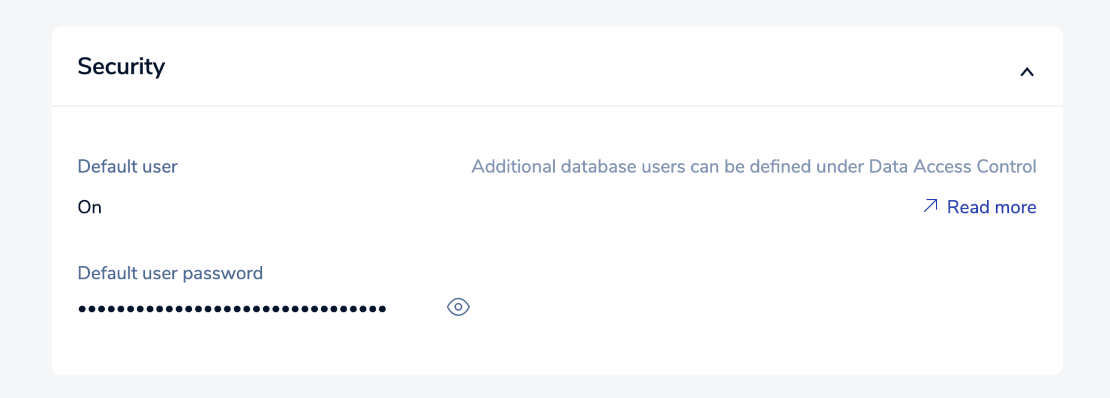
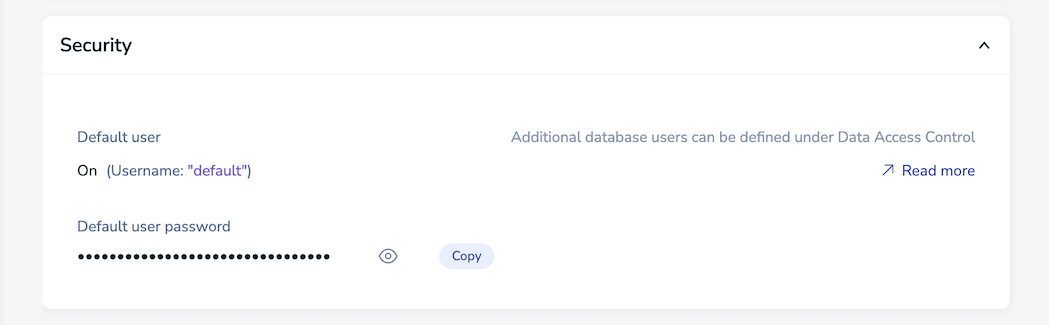
RC RBAC updates for new UI (#2248)
* Initial updates for RC RBAC screenshots & instructions

* Updated ACL & role instructions + copy edits/formatting

* Added new buttons & icons

* Added/fixed links, copy edits, reduced screenshot size

diff --git a/content/rc/security/database-security/passwords-users-roles.md b/content/rc/security/database-security/passwords-users-roles.md
@@ -9,12 +9,12 @@ aliases: /rc/administration/security/data-access-control
          /rc/security/database-security/passwords-users-roles.md
 ---
 All Redis Cloud databases require either [password-based authentication](#password-based-authentication) or
-[role-based access control](#role-based-access-control). Role-based access control allows you to define multiple
+[role-based access control](#role-based-access-control). Role-based access control lets you define multiple
 users with fine-grained authorization features.
 
 ## Prerequisites
 
-To use role-based access control, your Redis cloud database needs to support Redis version 6.0.0 or later.
+To use role-based access control, your Redis Cloud database needs to support Redis version 6.0.0 or later.
 
 The **Redis version** of a database is displayed in the **General** section of the **Configuration** tab of the [database detail]({{<relref "rc/databases/view-edit-database">}}) screen.
 
@@ -28,14 +28,9 @@ This appears in the **Security** section of the **Configuration** tab of the dat
 
 {{<image filename="images/rc/database-fixed-configuration-security.png" alt="The Default user password appears in the Security section of the Configuration tab on the database details screen." >}}{{< /image >}}
 
+Use the copy button to copy the password to the clipboard:
 
-You can see this password on the **View Database** screen.
-
-![Default User Password](/images/rc/default-user-password.png "Default User Password")
-
-Click the ![Password View Icon](/images/rc/icon_view.png "Default User Password") icon to see your password and copy it.
-
-![Default User Password Reveal](/images/rc/default-user-password-reveal.png "Default User Password Reveal")
+{{<image filename="images/rc/button-database-password-copy.png"  alt="Use the Copy button to copy the default user password." >}}{{< /image >}}
 
 You'll need to use this password whenever you connect to your database using a Redis client. For example,
 in the Redis CLI, you use the AUTH command to provide this password:
@@ -44,45 +39,47 @@ in the Redis CLI, you use the AUTH command to provide this password:
 AUTH 4kTtH2ddXfN2sFmXE6sowOLukxiaJhN8n
 ```
 
-See your Redis client's documentation for specifics on how to provide your password when connecting.
+See your Redis client's documentation to learn how to provide your password when connecting.
 
-### Changing the password
+### Change password
 
-To change your Redis database password:
+To change the default user password for your database:
 
-1. From the **View Database** screen, click ![Edit](/images/rc/icon_edit.png#no-click "Edit"):
+1. From the database **Configuration** tab, select **Edit database**:
 
-![Edit Database](/images/rc/view-edit.png "Edit Database")
+    {{<image filename="images/rc/button-database-edit.png" width="150px" alt="The Edit database button lets you change the database's default user password." >}}{{< /image >}}
 
-2. Scroll down to **Access Control & Security**, and enter the new password:
+1. Under the **Security** section, enter the new password in the **Default user password** field.
 
-![Edit Password](/images/rc/edit-password.png "Edit Password")
+1. Select **Save database** to update the password:
 
-3. Click **Update** to save your changes.
+    {{<image filename="images/rc/button-database-save.png" width="150px" alt="Use the Save database button to save the new password." >}}{{< /image >}}
 
-![Cancel/Update](/images/rc/cancel-update.png "Cancel Update")
+## Role-based access control {#role-based-access-control}
 
-## Role-Based access control {#role-based-access-control}
-
-Role-based access control (RBAC) is an access-control mechanism that allows you to define *roles* with specific sets of *permissions*. You can then assign *users* to these roles
+Role-based access control (RBAC) lets you define *roles* with specific sets of *permissions*. You can then assign *users* to these roles
 to provide appropriate levels of access.
 
 RBAC effectively lets you implement the [principle of least privilege](https://en.wikipedia.org/wiki/Principle_of_least_privilege). For example, you can provide
 read-only access to an application whose only job is to display Redis data. Similarly, you can prevent new developers from running dangerous administrative commands.
 
-### Setting up RBAC
+### Set up RBAC
 
 To set up RBAC, first navigate to the **Data Access Control** screen.
-
-![Data Access Control](/images/rc/data-access-control.png "Data Access Control")
 
 There are three tabs on this screen: **Users**, **Roles**, and **Redis ACLs**.
 
 In the **Redis ACLs** tab, you define named *permissions* for specific Redis commands and keys.
 
+{{<image filename="images/rc/data-access-control-acls.png" alt="Data access control screen." >}}{{< /image >}}
+
 In the **Roles** tab, you create roles. Each role consists of a set of permissions for one or more Redis Cloud databases.
 
-Finally, in the **Users** tab, you create users, and you assign each user a role.
+{{<image filename="images/rc/data-access-control-roles.png" alt="Data access control screen." >}}{{< /image >}}
+
+Finally, in the **Users** tab, you create users and assign each user a role.
+
+{{<image filename="images/rc/data-access-control-users.png" alt="Data access control screen." >}}{{< /image >}}
 
 #### OSS Redis ACLs vs. Redis Enterprise Cloud RBAC
 
@@ -102,52 +99,14 @@ run within the transaction block are subject to RBAC permissions.
 
 When you run multi-key commands on multi-slot keys, the return value is `failure` but the command runs on the keys that are allowed.
 
-### Defining permissions
+### Define permissions
 
-To define permissions, go to the **Redis ACLs** tab of the **Data Access Control** page.
+To define permissions, go to the **Redis ACLs** tab of the **Data Access Control** screen.
 
-![Redis ACLs](/images/rc/redis-acls.png "Redis ACLs")
+{{<image filename="images/rc/data-access-control-acls.png" alt="Data access control screen." >}}{{< /image >}}
 
-You define these named permissions using the [Redis ACL syntax](https://redis.io/topics/acl#acl-rules). This
-syntax allows you to concisely specify **commands**, **command categories**, and **keys** that should be permitted.
-
-A **command** can be any Redis command. Take the `SET` command, for example. The Redis ACL rule
-
-```sh
-+set
-```
-
-indicates that the `SET` command is permitted.
-
-A **command category** is a predefined, named set of commands. For example, the Redis commands that
-read data are available in the `read` command category. The Redis ACL rule
-
-```sh
-+@read
-```
-
-permits access to all read commands. If you'd like to know which commands are included in the
-`read` command category, run
-
-```sh
-ACL CAT read
-```
-
-from the Redis CLI.
-
-There's also a syntax for specifying which **keys** can be accessed. For example,
-
-```sh
-~*
-```
-
-indicates that all keys can be accessed. Whereas
-
-```
-~cache:*
-```
-
-indicates that only those keys beginning with the prefix `cache:` can be accessed.
+You define these named permissions using the [Redis ACL syntax](https://redis.io/docs/management/security/acl/#acl-rules). This
+syntax lets you concisely specify which **commands**, **command categories**, and **keys** to allow.
 
 The Redis ACL syntax emphasizes brevity:
 
@@ -156,13 +115,59 @@ The Redis ACL syntax emphasizes brevity:
 - `@` indicates a command category
 - `~` defines a permitted key pattern
 
+#### Command ACL rules
+
+A **command** can be any [Redis command](https://redis.io/commands/).
+
+For example, this Redis ACL rule indicates that the `SET` command is permitted:
+
+```sh
++set
+```
+
+#### Command category ACL rules
+
+A [**command category**](https://redis.io/docs/management/security/acl/#command-categories) is a predefined, named set of commands.
+
+For example, the Redis commands that
+read data are available in the `read` command category. This Redis ACL rule permits access to all read commands:
+
+```sh
++@read
+```
+
+To find out which commands are included in the
+`read` command category, run the following command with [`redis-cli`]({{<relref "/rs/references/cli-utilities/redis-cli">}}):
+
+```sh
+ACL CAT read
+```
+
+#### Key ACL rules
+
+There's also a [syntax](https://redis.io/docs/management/security/acl/#key-permissions) for specifying which **keys** are accessible.
+
+The following ACL rule allows access to all keys:
+
+```sh
+~*
+```
+
+Whereas, this ACL rule only allows access to keys prefixed with `cache:`
+
+```
+~cache:*
+```
+
 #### Predefined permissions
 
 Redis Cloud includes three, predefined permissions:
 
-- Full Access (`+@all ~*`) - All commands are allowed for all keys
-- Not Dangerous (`+@all -@dangerous ~*`) - All commands except for the "dangerous" command category are allowed for all keys
-- Read Only (`+@read ~*`) - Only the "read" command category is allowed for all keys
+- Full-Access (`+@all ~*`) - All commands are allowed for all keys
+
+- Read-Write (`+@all -@dangerous ~*`) - All commands except for the "dangerous" command category are allowed for all keys
+
+- Read-Only (`+@read ~*`) - Only the "read" command category is allowed for all keys
 
 #### Module command permissions
 
@@ -175,54 +180,94 @@ To define database access control, you can either:
 - Create new data access roles and select the management roles and Redis ACLs that apply to the roles for specific databases.
 - Assign roles and Redis ACLs to a database in the access control list section of the [database configuration]({{< relref "/rc/databases/create-database.md" >}}).
 
-### Configuring permissions using Redis ACLs
+### Configure permissions with Redis ACLs
 
 To configure a Redis ACL that you can assign to a data access role:
 
-1. In **Data Access Control** > **Redis ACLs**:
-    - To edit an existing Redis ACL: Hover over a Redis ACL and click ![Edit](/images/rc/icon_edit.png#no-click "Edit").
-    - To create a new Redis ACL: Click ![Add](/images/rc/icon_add.png#no-click "Add").
-1. Enter a descriptive name for the Redis ACL.
-1. Enter the [ACL syntax](https://redis.io/topics/acl#acl-rules) defining the ACL or click **Rule Builder** to use a form to build the ACL:
-    1. For the commands:
-        1. Select whether to include or exclude a command or category.
-        1. Enter the [ACL syntax](https://redis.io/topics/acl#acl-rules) that defines the commands.
-            - To add more command definitions, click ![Add](/images/rc/icon_add.png#no-click "Add").
-            - All entries in the Commands/Categories column apply to the keys defined in the Keys column.
-    1. For the keys, enter the [ACL syntax](https://redis.io/topics/acl#acl-rules) that defines the keys.
-        - To add more key definitions, click ![Add](/images/rc/icon_add.png#no-click "Add").
-    1. Click **Save Rule**.
-1. Click **Save**.
+1. Go to **Data Access Control > ACLs** and either:
 
-### Assigning permissions to a role
+    - Create a new Redis ACL:
+
+        {{<image filename="images/rc/icon-rbac-add.png" width="40px" alt="Select the Add button to create a new Redis ACL." >}}{{< /image >}}
+
+    - Point to an existing ACL and select **Edit**:
+
+        {{<image filename="images/rc/icon-rbac-edit.png" width="40px" alt="Select the Edit button to edit an existing ACL." >}}{{< /image >}}
+
+1. Provide a descriptive name for the Redis ACL.
+
+1. Enter [ACL syntax](https://redis.io/docs/management/security/acl/#acl-rules) to define the ACL rule or select **Rule Builder** for help building the ACL rule with correct syntax.
+
+1. To create a Redis ACL rule with the **Rule Builder**:
+
+    1. For **Redis commands / categories**, enter a [command](https://redis.io/commands/) or [command category](https://redis.io/docs/management/security/acl/#command-categories).
+
+    1. Select whether to include or exclude the command or category.
+
+    1. For **Keys**, enter the [pattern for permitted keys](https://redis.io/docs/management/security/acl/#key-permissions).
+
+    1. To add more commands, categories, or keys to the ACL rule, select **Add**:
+
+        {{<image filename="images/rc/button-data-access-control-redis-acls-rule-builder-add.png"  alt="Use the Add button to add more commands, categories, or keys to the ACL rule." >}}{{< /image >}}
+
+    1. When you finish building the ACL rule, select **Save rule**:
+
+        {{<image filename="images/rc/button-data-access-control-redis-acls-rule-builder-save-rule.png" width="120px" alt="The Save rule button saves your ACL rule changes." >}}{{< /image >}}
+
+1. Select the check mark to save your changes:
+
+    {{<image filename="images/rc/icon-check-mark.png" width="40px" alt="Select the Submit entry button to save your Redis ACL changes." >}}{{< /image >}}
+
+### Assign permissions to roles
 
 To assign Redis ACLs to a data access role:
 
-1. In **Data Access Control** > **Roles**:
-    - Edit an existing role - Hover over a role and click ![Edit](/images/rc/icon_edit.png#no-click "Edit").
-    - Create a new role - Click ![Add](/images/rc/icon_add.png#no-click "Add").
-1. In the Redis ACLs section:
-    - Edit a Redis ACL association - Hover over a Redis ACL assignment and click ![Edit](/images/rc/icon_edit.png#no-click "Edit").
-    - Create a Redis ACL association - Click ![Add](/images/rc/icon_add.png#no-click "Add").
-1. Select the databases that the Redis ACL applies to.
-1. Select the [Redis ACL](#configuring-redis-acls) that defines the access to commands and keys.
-1. Click ![Save](/images/rc/icon_save.png#no-click "Save").
+1. Go to **Data Access Control > Roles** and either:
 
-    You can click ![Add](/images/rc/icon_add.png#no-click "Add") to assign a Redis ACL to another database.
+    - Point to an existing role and select the **Edit** button:
 
-1. Click **Save**.
+        {{<image filename="images/rc/icon-rbac-edit.png" width="40px" alt="Select the Edit button to edit an existing role." >}}{{< /image >}}
 
-Users that are assigned to the role can access the databases according to the Redis ACL definitions.
+    - Select the **Add** button to create a new role:
 
-### Assigning a role to a user
+        {{<image filename="images/rc/icon-rbac-add.png" width="40px" alt="Select the Add button to create a new role." >}}{{< /image >}}
+
+1. In the **Associations** section of the **Edit role** or **Create new role** screen, you can:
+
+    - Point to an existing association and select the **Edit** button:
+
+        {{<image filename="images/rc/icon-rbac-edit.png" width="40px" alt="Select the Edit button to edit an existing role association." >}}{{< /image >}}
+
+    - Select the **Add** button to create a new association:
+
+        {{<image filename="images/rc/icon-rbac-add.png" width="40px" alt="Select the Add button to create a new role association." >}}{{< /image >}}
+
+1. Select one or more databases from the **Databases** list.
+
+1. To set the role's level of access to the selected databases, select a **Redis ACL** from the list.
+
+1. Select the check mark to confirm the association:
+
+    {{<image filename="images/rc/icon-check-mark.png" width="40px" alt="Select the Submit entry button to save the role association changes." >}}{{< /image >}}
+
+1. Select **Save role**:
+
+    {{<image filename="images/rc/button-data-access-control-save-role.png" width="120px" alt="The Save role button saves your role changes." >}}{{< /image >}}
+
+Users assigned the role can access the databases according to the role's associated Redis ACLs.
+
+### Assign roles to users
 
 To assign a role to a user:
 
-1. In **Data Access Control** > **Users**:
-    - Edit an existing role - Hover over a role and click ![Edit](/images/rc/icon_edit.png#no-click "Edit").
-    - Create a new role - Click ![Add](/images/rc/icon_add.png#no-click "Add").
-1. Select a role for the user.
+1. Go to **Data Access Control > Users**.
 
-    You can also change the user password.
+1. Point to the user and select the **Edit** button when it appears:
 
-1. Click ![Save](/images/rc/icon_save.png#no-click "Save").
+    {{<image filename="images/rc/icon-rbac-edit.png" width="40px" alt="Select the Edit button to edit an existing user's role." >}}{{< /image >}}
+
+1. Select a **Role** from the list.
+
+1. Select the check mark to assign the role to the user:
+
+    {{<image filename="images/rc/icon-check-mark.png" width="40px" alt="Select the Submit entry button to apply the user's role changes." >}}{{< /image >}}
